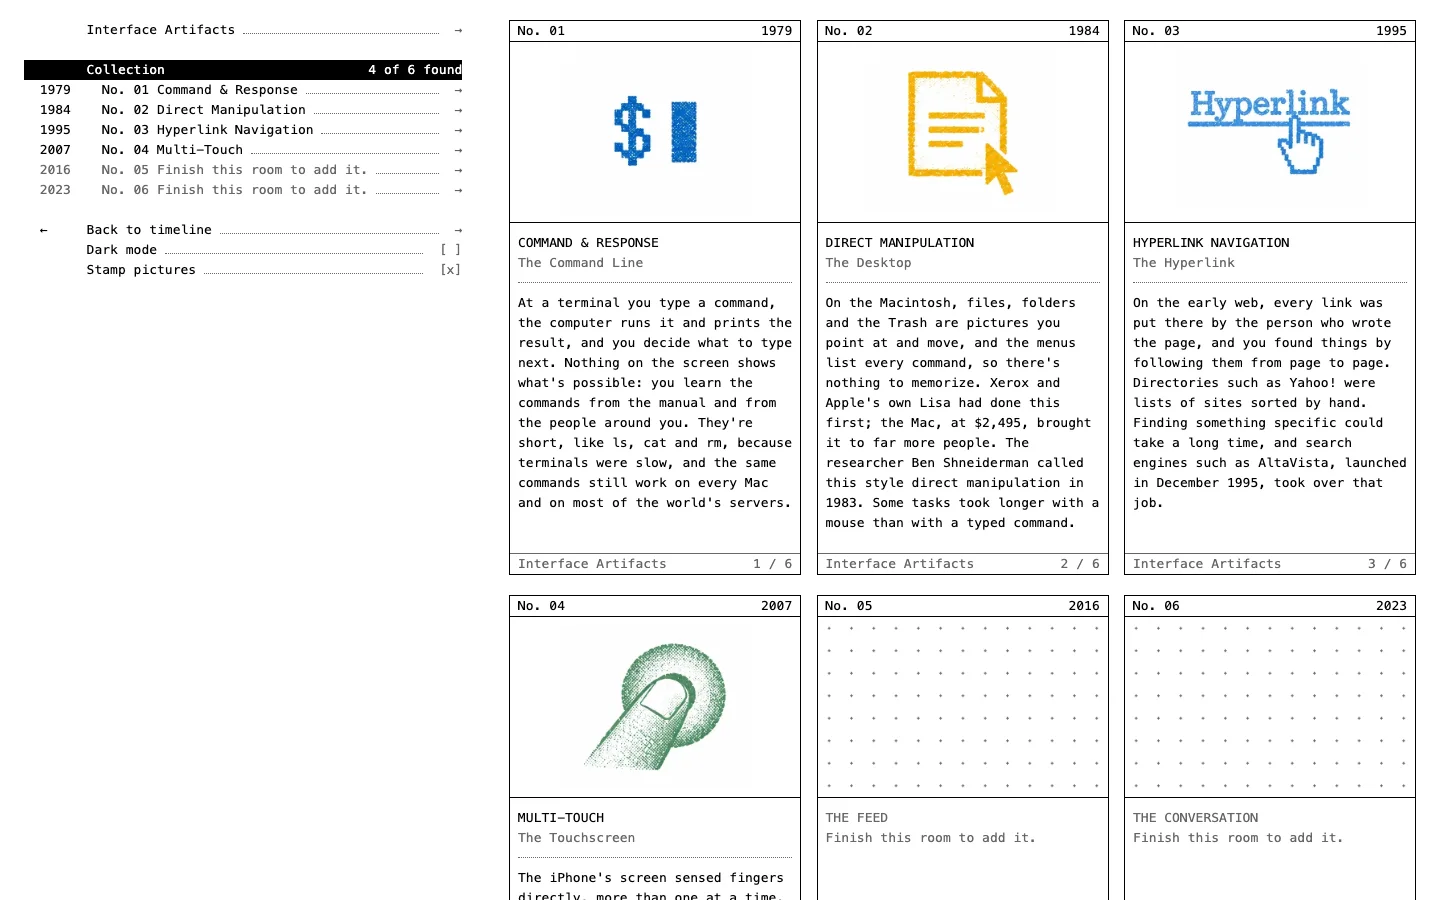
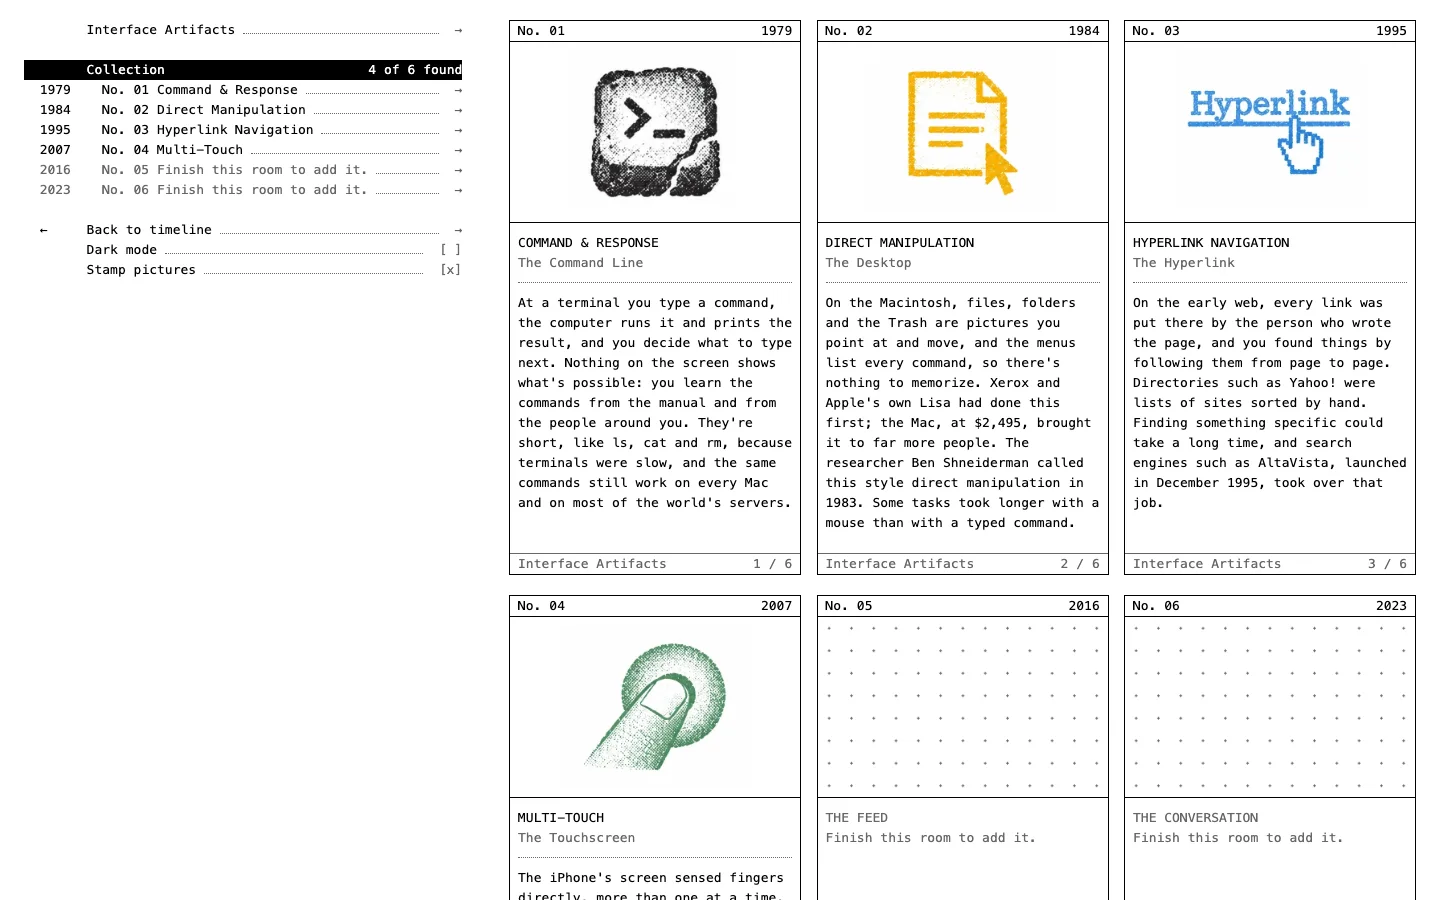
Stamp pictures: the Command Line's stamp is now Matthew's black >_ key; card lab mask regenerated, screenshots retaken

Changed region(s): [[0.4062, 0.0622, 0.5, 0.2178]]

diff --git a/docs/design-spec.md b/docs/design-spec.md
@@ -176,7 +176,7 @@ A second museum layer: one monospace list that is the whole museum, built from c
 - **Grid and type (tokens on `.ix`):** one monospace stack (`ui-monospace, Menlo, Monaco, 'Courier New'`) at one size, 13px on 20px rows. Columns in `ch`: a line is `[cursor 2ch][mark 6ch][text][leader][right side + arrow]`; a line under another starts `--ix-sub` 2ch further in; running text stops at `--ix-measure` 64ch; the list is `--ix-list` 76ch on the title and timeline, 56ch beside the cards, and `--ix-hud` 50ch in a level. Gaps are one row. Page edge 24px (16px at phone width).
 - **Ink:** black `#000` on white for what matters now; one grey, `#666` (5.7:1), for what's secondary: leaders, right-hand sides, `[ ]`, the hint, labels, "not found", rooms you're not in, dev lines.
 - **Dark mode** (Matthew, 10 Nov 2026): a "Dark mode" line with `[ ]` / `[x]` (`aria-pressed`) on every view, after Collection and About on the title and timeline and after "Back to timeline" in a level and on the collection. Dark is the default (Matthew, 10 Nov 2026); choosing light is remembered per browser (`ux-archaeologist:index-theme`, `src/shared/index-museum/theme.js`) and mirrored as `data-index-theme` on `<html>`. Dark inks: `#e6e6e6` for what matters now, `#8a8a8a` (5.4:1) for the second ink, on `#111`. The room behind the artifact follows through `--ix-room` (white or `#111`) on `body` and the level page. The artifacts were designed on the Classic museum's dark room, so in dark the Level 4 ghost iPhone's outline shows again and Level 5's chat sits on a dark page.
-- **Stamp pictures (dev server only, under comparison):** a "Stamp pictures" line (`[ ]` / `[x]`, after Dark mode) swaps every room picture (the hover preview, the discovery, the collection's cards) from the dot pictures to six coloured stamp prints cut from `docs/reference/style-lab/stamp-illustrations.webp` into `assets/stamps/stamp-N.webp`: one 480 × 408 box (the 400 / 340 shape) round each picture's centre, at the reference's own scale, paper and grain kept. Each sits on its own paper in its own colours, never inverts and has no frame; unfound rooms keep the empty dot grid. While no room is pointed at, the space beside the list on the title and timeline shows a resting stamp, an arrowhead (Matthew, 10 Nov 2026; `assets/stamps/stamp-default.webp`, cut to the same tile and scale from `docs/reference/style-lab/stamp-default-arrowhead.webp`), with no year; pointing at a room swaps in its stamp, and pointing away brings the arrowhead back. With the dots that space stays empty until a room is pointed at. Remembered per browser (`ux-archaeologist:index-pictures`, `src/shared/index-museum/pictureStyle.js`). The dev server serves the stamps by path, so the production build has neither the line nor the files. Comparisons: `docs/museum-index/pictures/`.
+- **Stamp pictures (dev server only, under comparison):** a "Stamp pictures" line (`[ ]` / `[x]`, after Dark mode) swaps every room picture (the hover preview, the discovery, the collection's cards) from the dot pictures to six coloured stamp prints cut from `docs/reference/style-lab/stamp-illustrations.webp` into `assets/stamps/stamp-N.webp`: one 480 × 408 box (the 400 / 340 shape) round each picture's centre, at the reference's own scale, paper and grain kept. The Command Line's is Matthew's own black stamp (a `>_` prompt key, cracked; 10 Nov 2026; source `docs/reference/style-lab/stamp-command-line.webp`, at its own resolution in the same tile), in place of the blue `$` and cursor. Each sits on its own paper in its own colours, never inverts and has no frame; unfound rooms keep the empty dot grid. While no room is pointed at, the space beside the list on the title and timeline shows a resting stamp, an arrowhead (Matthew, 10 Nov 2026; `assets/stamps/stamp-default.webp`, cut to the same tile and scale from `docs/reference/style-lab/stamp-default-arrowhead.webp`), with no year; pointing at a room swaps in its stamp, and pointing away brings the arrowhead back. With the dots that space stays empty until a room is pointed at. Remembered per browser (`ux-archaeologist:index-pictures`, `src/shared/index-museum/pictureStyle.js`). The dev server serves the stamps by path, so the production build has neither the line nor the files. Comparisons: `docs/museum-index/pictures/`.
 - **Line states:**
   - *Rest:* black text, grey right side.
   - *Can be chosen:* a dotted grey leader to the right side and an arrow: `→` goes somewhere, `↗` leaves the site, `+` / `−` opens / closes in place. Leaders mean only this. Exception: in a level, the rooms you're not in are bare grey lines (still clickable) so the list stays quiet.

diff --git a/docs/backlog.md b/docs/backlog.md
@@ -247,7 +247,7 @@ This is an option to compare, not a replacement. The dot pictures entry above go
   - Check in the browser at 1440 and 375.
   - Add screenshots of the stamp option to `docs/museum-index/`.
 - **Spec:** one paragraph in the "Index museum" section saying the option exists and how to switch it.
-- **Status (10 Nov 2026):** built and shown to Matthew. His call: keep both for now, the switch stays and dots stay the default. Then: an arrowhead stamp (his image) rests beside the list while no room is pointed at, stamps only. Stamps in `assets/stamps/` (480 × 408, the reference's own resolution: twice the largest showing, about 600px, would only upscale it); the reference's paper is near-white (254), not cream. Side by side, dots left and stamps right, in light and dark: `docs/museum-index/pictures/compare-<light|dark>-<timeline-hover|level-4-discovery|collection>.webp`; stamp shots at 1440 and 375 in `docs/museum-index/*-pictures-stamps-*`. The dot side still shows the old masks, because the grid redraw (entry above) isn't wired in yet. Checked: 165 tests (each option draws all six; no line or switching outside the dev server), `npm run build` (no line, no stamp files).
+- **Status (10 Nov 2026):** built and shown to Matthew. His call: keep both for now, the switch stays and dots stay the default. Then: an arrowhead stamp (his image) rests beside the list while no room is pointed at, stamps only. Then: the Command Line's blue `$` stamp replaced by his black `>_` key (`docs/reference/style-lab/stamp-command-line.webp`); its card lab mask regenerated, screenshots retaken. Stamps in `assets/stamps/` (480 × 408, the reference's own resolution: twice the largest showing, about 600px, would only upscale it); the reference's paper is near-white (254), not cream. Side by side, dots left and stamps right, in light and dark: `docs/museum-index/pictures/compare-<light|dark>-<timeline-hover|level-4-discovery|collection>.webp`; stamp shots at 1440 and 375 in `docs/museum-index/*-pictures-stamps-*`. The dot side still shows the old masks, because the grid redraw (entry above) isn't wired in yet. Checked: 165 tests (each option draws all six; no line or switching outside the dev server), `npm run build` (no line, no stamp files).
 
 
 ### Card lab: stamp cards in a grid · approved 10 Nov 2026
